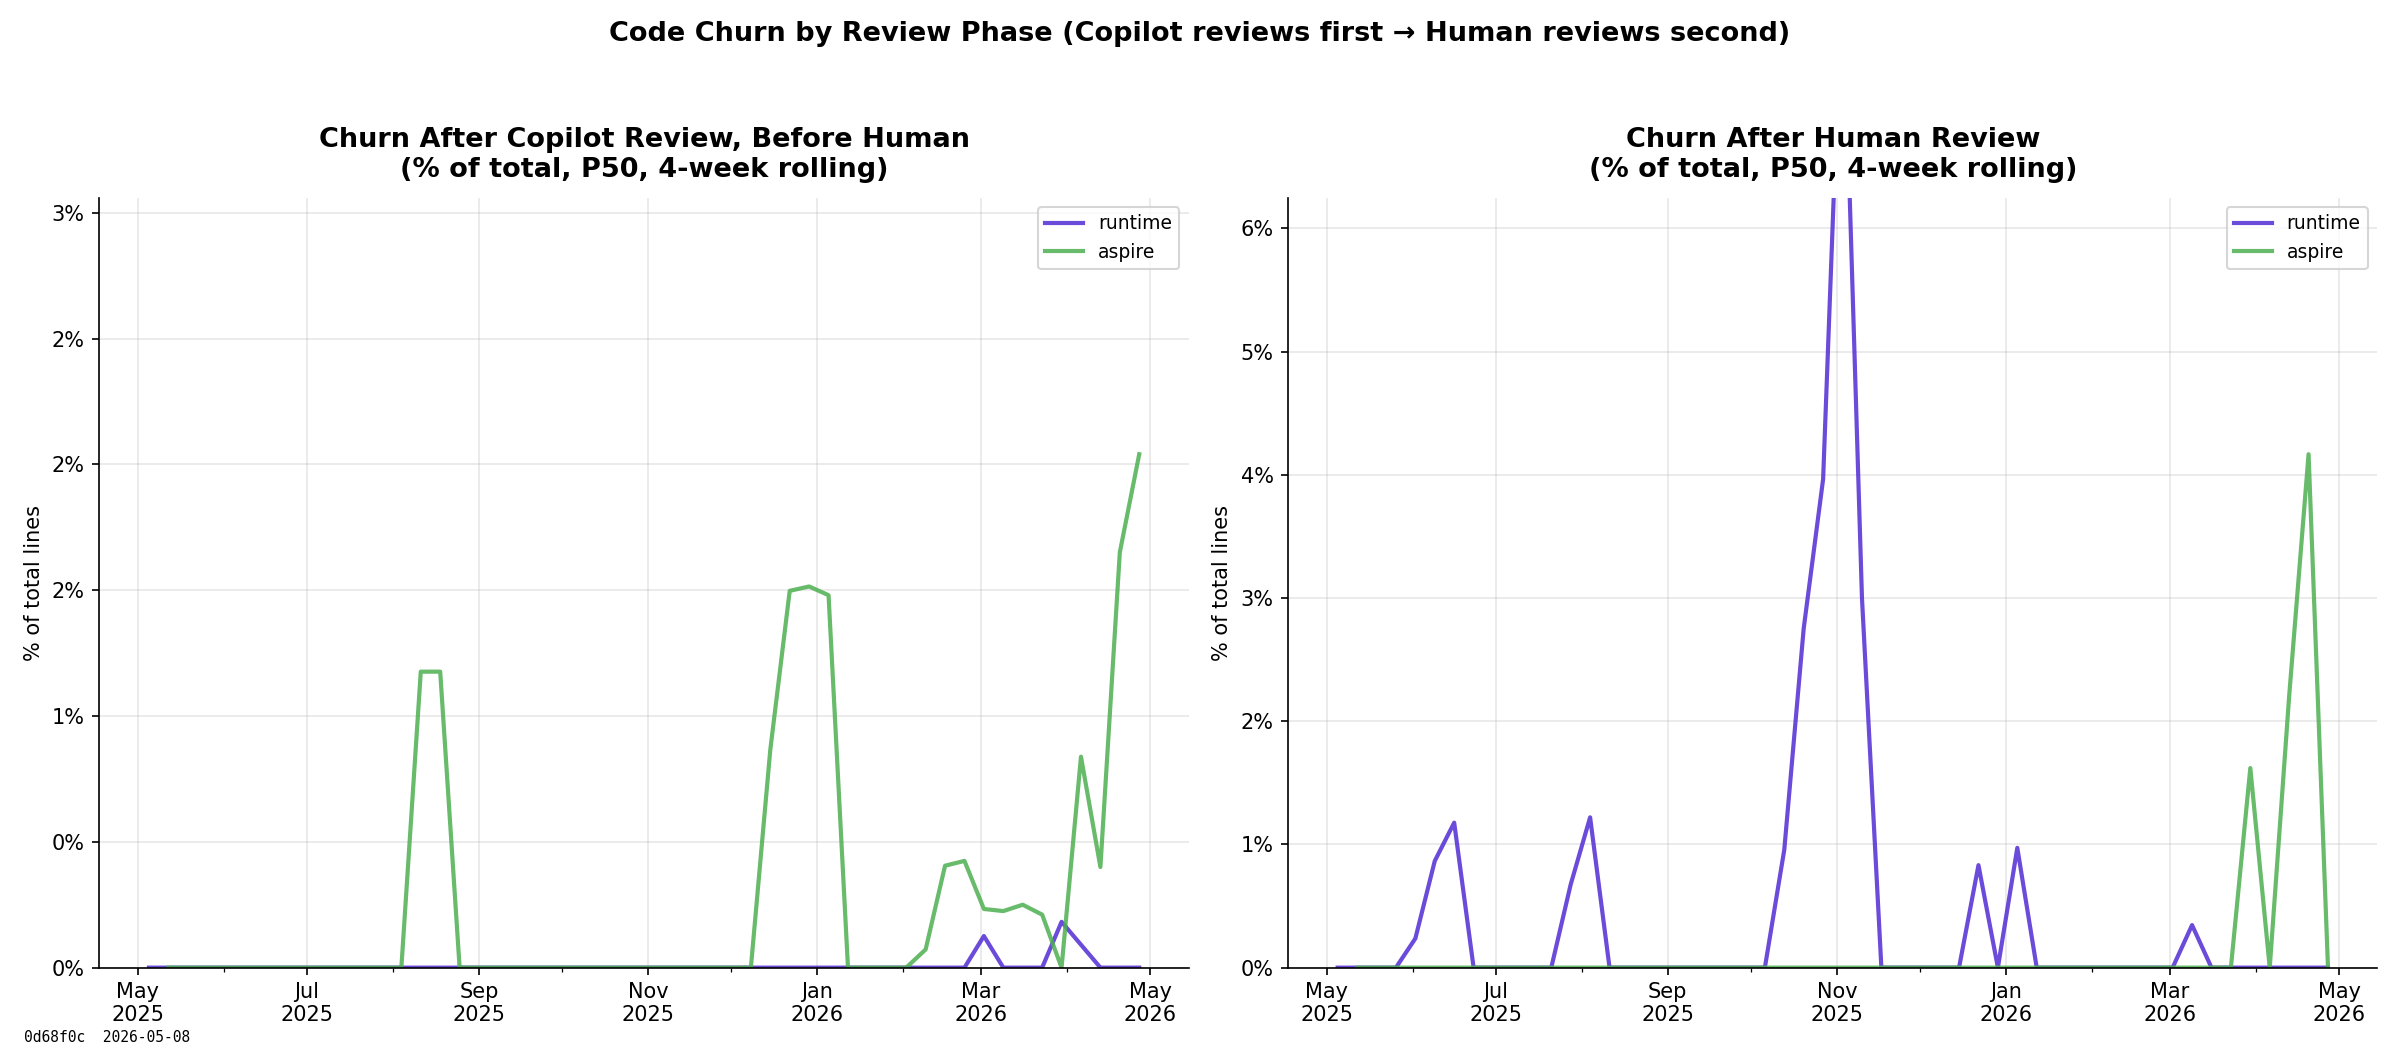
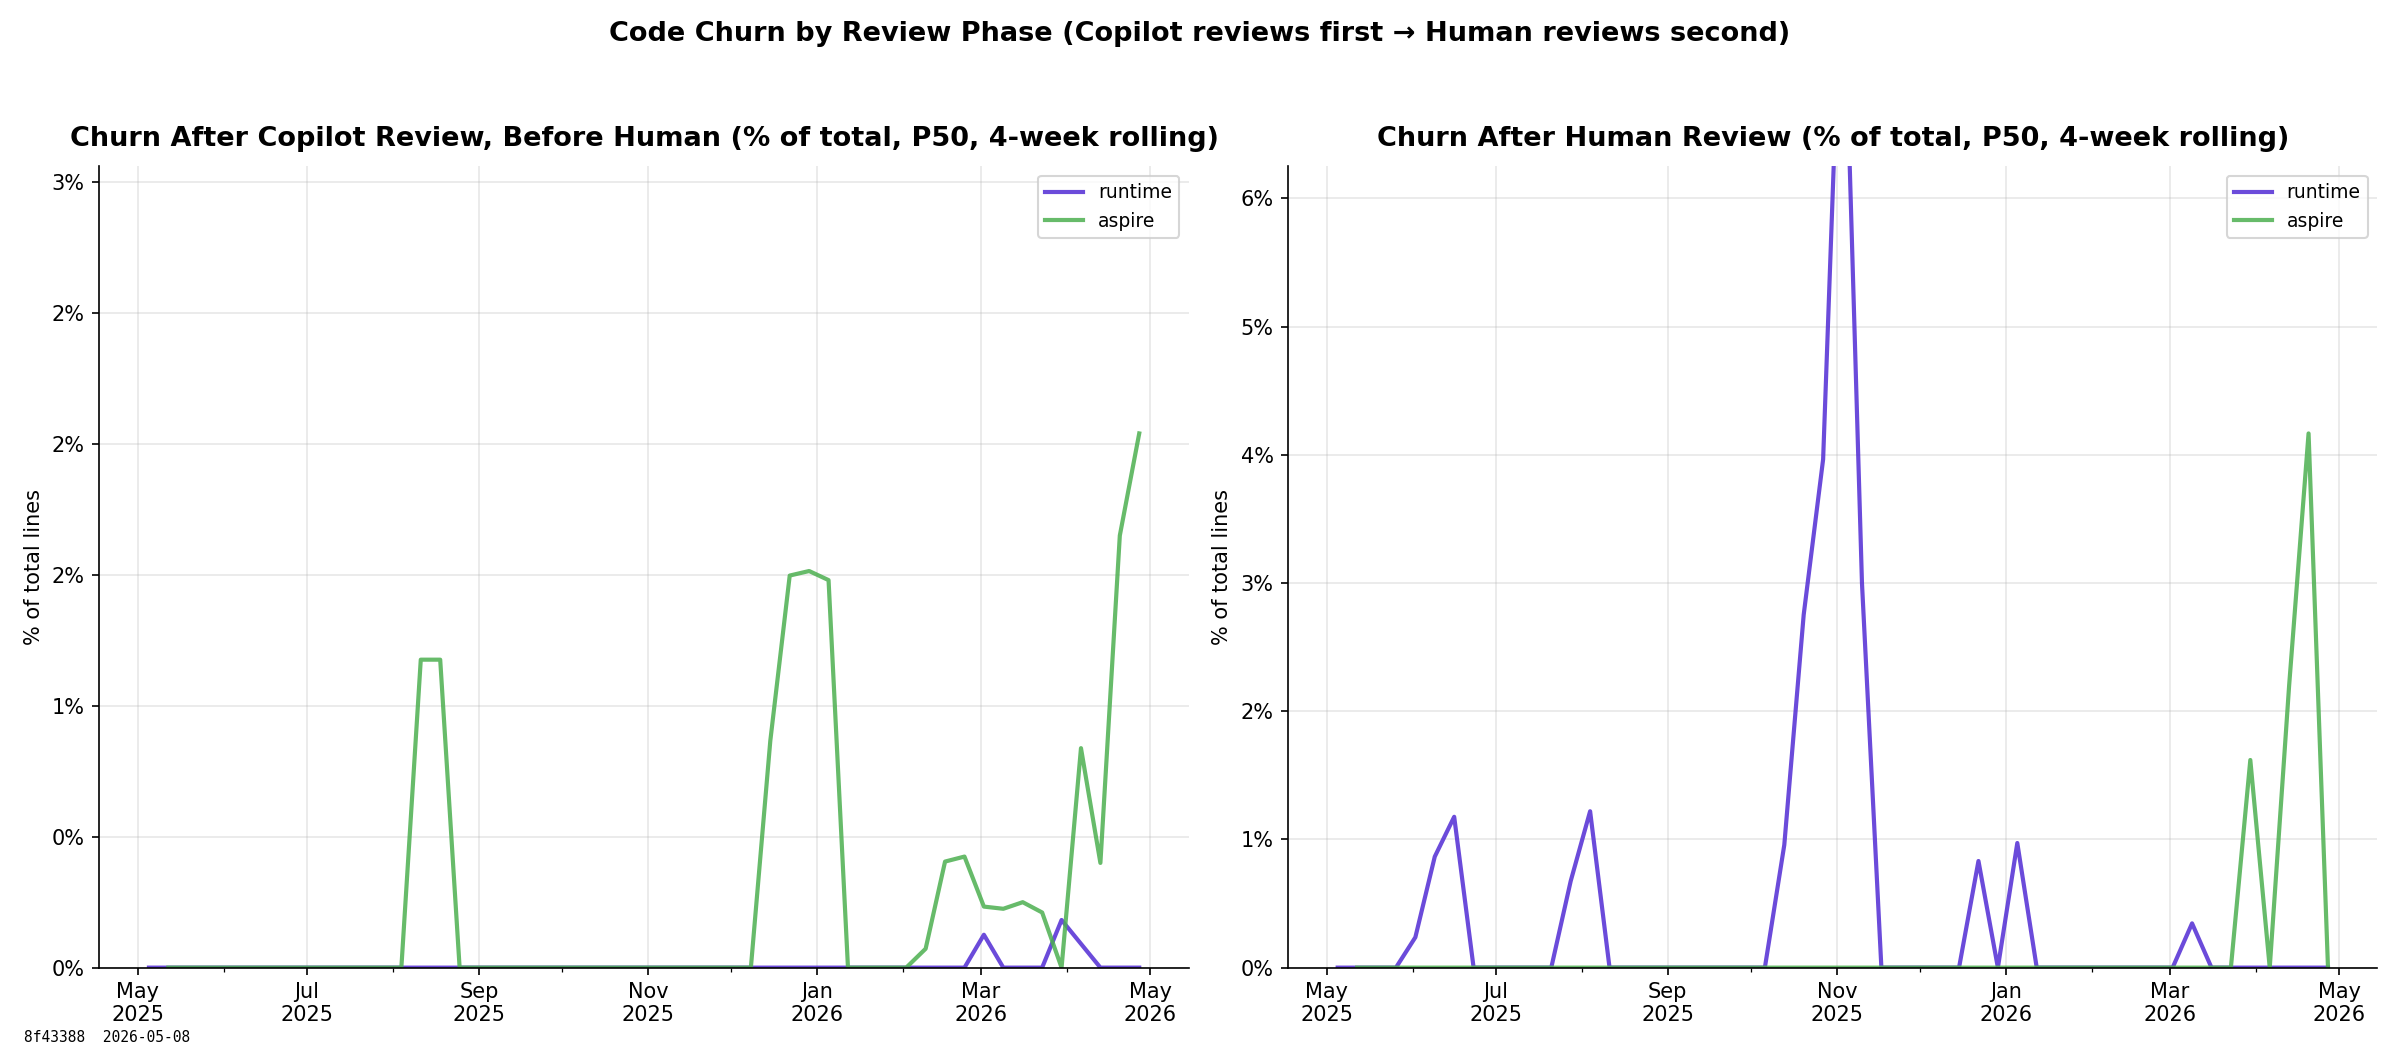
Fix Copilot code review feedback on PR #16
- Fix chart_index.tsv newline corruption: sanitize newlines in write_chart_registry()
- Fix churn-by-phase title: use single-line titles, reference active_repos not REVIEW_CHART_REPOS
- Fix load_review_data() docstring: correct key names (reviews_by_pr, not reviews)
- Fix graphql_request() docstring: returns Response, not parsed JSON
- Fix _thread_comment_keys(): populate created_at from thread data for actual matching
- Fix ensure_schema(): distinguish duplicate-column from missing-table errors
- Fix human comments comparison insight: add selection bias note
- Soften hardcoded findings in index.html
- Remove unused 'from statistics import median' import
- Remove unused 'header' variable in load_csv.py
- Regenerate affected review charts

diff --git a/charts/index.html b/charts/index.html
@@ -110,7 +110,7 @@
   </ul>
   <h2 style="margin-top: 14px;">Potential Actions</h2>
   <ul>
-    <li><span class="tag">Copilot Code Review impact (NEW):</span> Copilot reviews ~80% of runtime PRs. Time-to-first-feedback is minutes (vs 3-6 hours for humans). Copilot-reviewed PRs show P50=55% post-human churn vs 86% for non-Copilot PRs — strong evidence that early AI feedback reduces human rework. Suggestion rate trending from 85%→45% suggests evolution toward explanatory feedback.</li>
+    <li><span class="tag">Copilot Code Review impact (NEW):</span> See the charts below for current data on Copilot review coverage, comment density, churn reduction, and time-to-first-feedback. Early signs suggest AI review reduces human rework; the key metric to watch is whether human review effort decreases over time as Copilot review improves.</li>
     <li><span class="tag">Reduce community PR merge latency:</span> maui's 8× gap and runtime's 2× gap potentially drive the retention drop. Faster first review could help?</li>
     <li><span class="tag">Nurture top contributors:</span> Top 10% of community authors (~110 people in runtime) produce ~76% of community PRs. Identify and invest in these contributors — losing even a few has outsized impact.</li>
     <li><span class="tag">Diversify maui community:</span> High dependence on Syncfusion for community PRs since mid-2024. Broaden the contributor base to reduce single-partner dependency.</li>

diff --git a/analyze.py b/analyze.py
@@ -579,7 +579,8 @@ def write_chart_registry(output_dir):
     with open(path, "w", encoding="utf-8") as f:
         f.write("hash\ttitle\n")
         for h in sorted(_CHART_REGISTRY):
-            f.write(f"{h}\t{_CHART_REGISTRY[h]}\n")
+            title = _CHART_REGISTRY[h].replace("\n", " — ")
+            f.write(f"{h}\t{title}\n")
     print(f"  {path}")
 
 
@@ -3840,7 +3841,7 @@ REVIEW_CHART_REPOS = ("dotnet/runtime", "dotnet/roslyn", "microsoft/aspire")
 
 def load_review_data(conn, repo):
     """Load all review-related data for a repo from the review tables.
-    Returns dict with keys: reviews, comments, commits, or empty dict if tables missing."""
+    Returns dict with keys: reviews_by_pr, comments_by_pr, commits_by_pr, or empty dict if tables missing."""
     try:
         reviews = conn.execute(
             "SELECT number, author, author_type, state, submitted_at "
@@ -4115,8 +4116,6 @@ def chart_review_copilot_comment_density(all_items, review_data, output_dir):
 
 def chart_review_human_comments_comparison(all_items, review_data, output_dir):
     """Human comments on Copilot-reviewed PRs vs non-Copilot-reviewed PRs."""
-    from statistics import median
-
     fig, ax = plt.subplots(figsize=(14, 7))
     setup_axes(ax, "Human Review Comments — Copilot-Reviewed vs Not (4-week rolling mean)",
                "Human comments / PR")
@@ -4186,10 +4185,10 @@ def chart_review_human_comments_comparison(all_items, review_data, output_dir):
     ax.legend(loc="upper left", fontsize=10)
     add_direction_arrow(ax, "down")
     add_insight_box(ax, [
-        "If Copilot catches issues early, humans should need fewer comments",
-        "Solid = PRs with Copilot review; Dashed = PRs without (same color = same repo)",
-        "Gap between lines = Copilot's impact on reducing human review burden",
-        "Includes all merged PRs; human comments from all non-bot reviewers",
+        "Human review comments per merged PR, split by whether Copilot also reviewed",
+        "Solid = w/ Copilot review; Dashed = without (same color = same repo)",
+        "Copilot-reviewed PRs may show MORE human comments due to selection bias",
+        "Better metric: trend within Copilot-reviewed PRs over time (TODO)",
     ])
     fig.tight_layout()
     path = os.path.join(output_dir, "review_human_comments_comparison.png")
@@ -4734,8 +4733,8 @@ def chart_review_churn_copilot_vs_human(all_items, review_data, output_dir):
             (post_human_by_week, "After Human Review"),
         ]):
             ax = axes[ax_idx]
-            if ax_idx == 0 or repo == REVIEW_CHART_REPOS[0]:
-                setup_axes(ax, f"Churn {title_suffix}\n(% of total, P50, 4-week rolling)",
+            if ax_idx == 0 or repo == active_repos[0]:
+                setup_axes(ax, f"Churn {title_suffix} (% of total, P50, 4-week rolling)",
                            "% of total lines")
                 ax.yaxis.set_major_formatter(FuncFormatter(lambda x, p: f"{x:.0f}%"))
 

diff --git a/fetch_reviews.py b/fetch_reviews.py
@@ -106,7 +106,7 @@ query($owner: String!, $name: String!, $number: Int!,
             state
             commit { oid }
             author { login __typename }
-            comments(first: 30) {
+            comments(first: 100) {
               nodes {
                 databaseId
                 body
@@ -217,8 +217,13 @@ def ensure_schema(conn):
         conn.execute("ALTER TABLE items ADD COLUMN title TEXT")
         conn.commit()
         print("Added title column to items table")
-    except sqlite3.OperationalError:
-        pass  # column already exists
+    except sqlite3.OperationalError as e:
+        if "duplicate column" in str(e).lower():
+            pass  # column already exists
+        elif "no such table" in str(e).lower():
+            print("Warning: items table not found — run fetch.py or load_csv.py first")
+        else:
+            raise
 
     conn.commit()
 
@@ -231,7 +236,7 @@ def has_suggestion(body):
 
 
 def graphql_request(session, token, query, variables):
-    """Execute a GraphQL query. Returns parsed JSON or raises."""
+    """Execute a GraphQL query. Returns raw requests.Response (caller must handle .json(), .status_code)."""
     resp = session.post(
         "https://api.github.com/graphql",
         json={"query": query, "variables": variables},
@@ -424,6 +429,7 @@ def fetch_pr_review_data(session, token, owner, name, number):
                     "resolved_by": resolved_by,
                     "author": thread_author,
                     "author_type": thread_author_type,
+                    "created_at": first_comment.get("createdAt", ""),
                     "has_suggestion": any(
                         has_suggestion(c.get("body")) for c in thread_comments
                     ),
@@ -500,9 +506,13 @@ def store_pr_data(conn, repo, number, title, reviews, comments, commits, threads
 
 
 def _thread_comment_keys(thread):
-    """Generate lookup keys for matching thread comments to review comments."""
-    # We match on (author, created_at) which is usually unique per comment
-    return [(thread["author"], "")]  # Fallback; real matching uses thread data
+    """Generate lookup keys for matching thread comments to review comments.
+    Matches on (author, created_at) which is usually unique per comment."""
+    author = thread.get("author", "")
+    created_at = thread.get("created_at", "")
+    if author and created_at:
+        return [(author, created_at)]
+    return []
 
 
 def fetch_repo_reviews(conn, session, token, repo, since_date):

diff --git a/load_csv.py b/load_csv.py
@@ -156,7 +156,7 @@ def main():
     count = 0
     with gzip.open(csv_path, "rt", newline="") as f:
         reader = csv.reader(f)
-        header = next(reader)
+        next(reader)  # skip header
         batch = []
         for row in reader:
             row = nullify(row)
